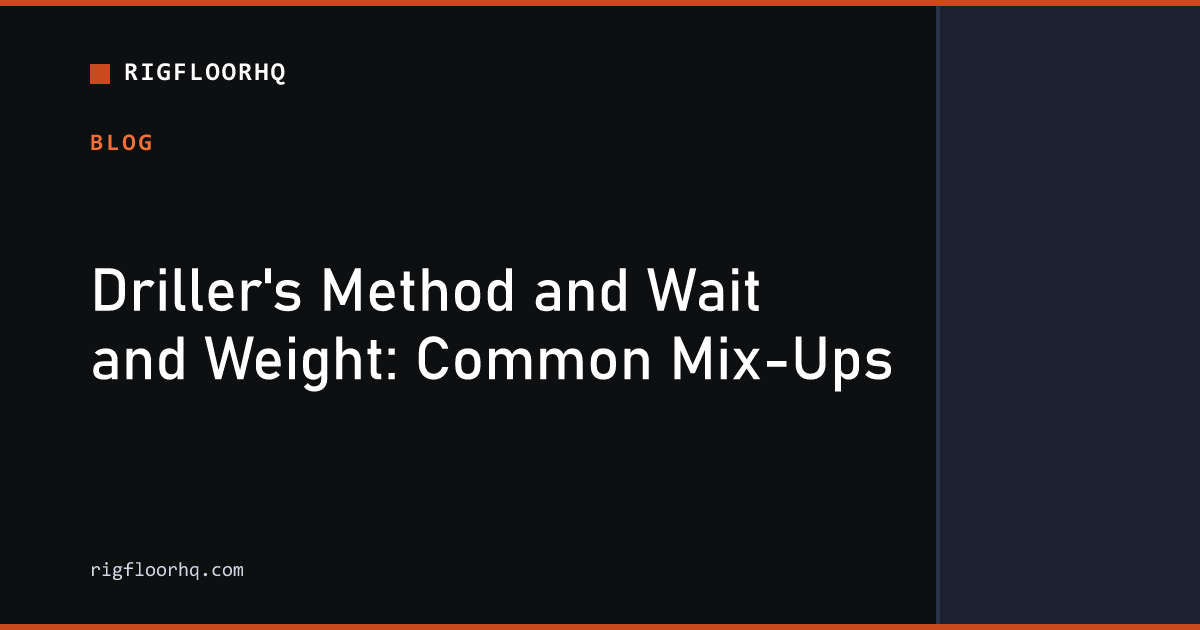
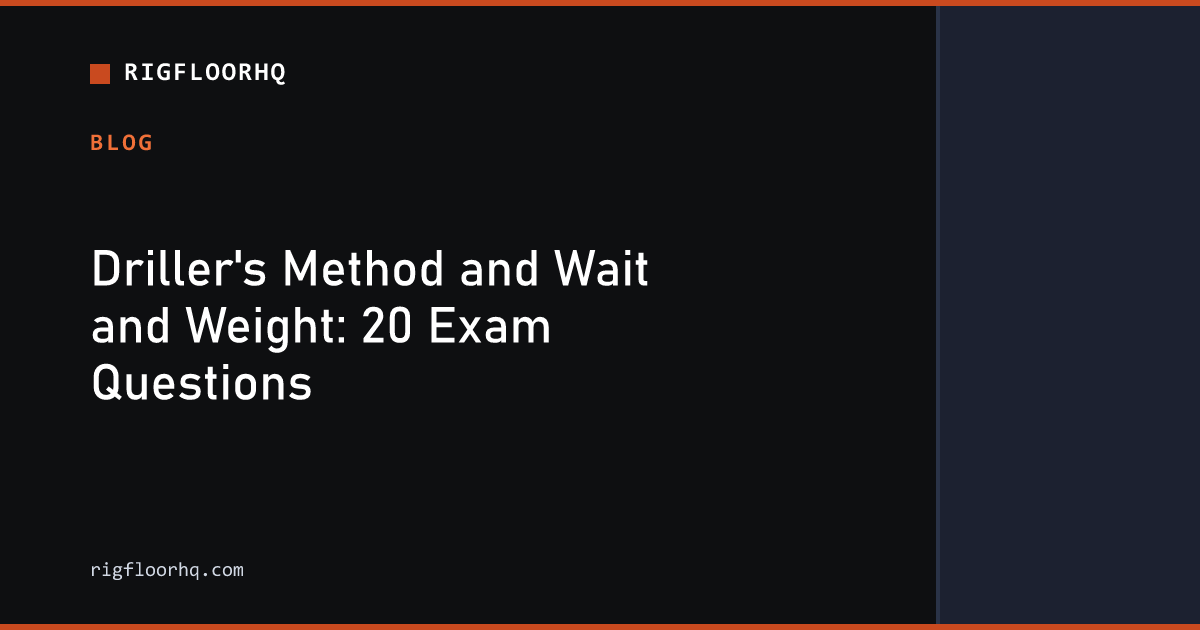
Resolve kill-method content cannibalization across 4 URLs (audit finding CA-01)
The Driller's Method vs Wait and Weight comparison was split across the
well-control hub, the well-kill-methods pillar, the well-control-basics
FAQ, and a dedicated mix-ups post -- all targeting the same search intent.

- Pillar now owns the comparison: "Choosing a Kill Method" renamed to
  "Driller's Method vs Wait and Weight: Side by Side", with a new worked
  comparison (circulations, strokes, time, peak shoe/casing pressure)
  through both methods on the same kick used elsewhere on the page.
- Hub cut from ~510 words (full process/advantage/disadvantage table +
  its own separate worked example) to a ~150-word summary retitled "Kill
  Methods at a Glance", linking to the pillar for depth instead of
  duplicating it.
- well-control-basics FAQ changed from a standalone answer to a link to
  the pillar's comparison.
- Mix-ups post retitled "Driller's Method and Wait and Weight: 20 Exam
  Questions" to match its real Q&A format (verified: exactly 20 numbered
  questions, EN and ES).

Also closed the related H2 finding while in the same files: the pillar's
URL was renamed to /pillars/well-kill-methods in a prior session, but ten
inline references sitewide (pillars index card + "What Each Guide
Covers" H3, the quiz page, hydrostatic-pressure pillar, kill-sheet
calculator, and five blog posts, EN and ES) still called it "Advanced
Well Control" / "Control de Pozos Avanzado". All aligned to the real
title -- confirmed zero stray references left in the built dist output.
[…]

Changed region(s): [[0.0617, 0.3921, 0.74, 0.6333]]

diff --git a/src/content/blog-es/well-control-basics.md b/src/content/blog-es/well-control-basics.md
@@ -144,7 +144,7 @@ Si estás construyendo o avanzando una carrera en el piso de perforación, enten
 
 El control de pozos tampoco existe aislado del resto de las operaciones del taladro. La integridad de la sarta de perforación, cubierta en la [página de componentes de la sarta de perforación](/es/equipment/drill-string), afecta todo desde la función de los arietes de corte hasta la transmisión de presión durante una matanza. Las reparaciones estructurales en el equipo del piso de perforación, incluyendo componentes del stack de BOP y manifolds de choke, a menudo requieren trabajo de soldadura realizado según estándares estrictos de recipientes a presión — cubierto en la [sección de fundamentos de soldadura](/es/welding).
 
-Para una mirada más amplia de cómo el control de pozos encaja en la secuencia completa de perforación, desde el spud hasta la profundidad total, el [resumen de operaciones de perforación](/es/drilling) y el [resumen de equipo del taladro](/es/equipment) proporcionan el contexto circundante. Y si estás comparando herramientas antes de tu próximo pozo, la [suite completa de calculadoras de perforación](/es/calculators) cubre presión hidrostática, hojas de control de pozo, y ventanas de peso de lodo en un solo lugar. Una vez que los fundamentos aquí estén sólidos, la [guía de Control de Pozos Avanzado](/es/pillars/well-kill-methods) continúa donde esto termina, y [comportamiento de la presión de cierre](/es/blog/shut-in-pressure-behavior-explained) profundiza en lo que realmente hacen los manómetros una vez que el pozo está cerrado.
+Para una mirada más amplia de cómo el control de pozos encaja en la secuencia completa de perforación, desde el spud hasta la profundidad total, el [resumen de operaciones de perforación](/es/drilling) y el [resumen de equipo del taladro](/es/equipment) proporcionan el contexto circundante. Y si estás comparando herramientas antes de tu próximo pozo, la [suite completa de calculadoras de perforación](/es/calculators) cubre presión hidrostática, hojas de control de pozo, y ventanas de peso de lodo en un solo lugar. Una vez que los fundamentos aquí estén sólidos, la [guía de Métodos para Matar un Pozo](/es/pillars/well-kill-methods) continúa donde esto termina, y [comportamiento de la presión de cierre](/es/blog/shut-in-pressure-behavior-explained) profundiza en lo que realmente hacen los manómetros una vez que el pozo está cerrado.
 
 ## Conceptos Erróneos Comunes
 
@@ -236,7 +236,7 @@ El cierre duro cierra el BOP contra un choke cerrado y luego abre la válvula HC
 
 ### ¿Es mejor el Método del Perforador o el Método Wait and Weight para control de pozos?
 
-Ningún método es universalmente mejor — la elección depende de la capacidad del taladro, la capacidad de mezcla de lodo, y la sensibilidad de la formación. El Método del Perforador usa dos circulaciones con el lodo original primero, mientras que Wait and Weight mata el pozo en una circulación usando lodo de matanza pre-pesado.
+Ninguno es universalmente mejor — depende de la capacidad del taladro, la capacidad de mezcla de lodo, y la sensibilidad de la formación. Ver la [comparación completa entre el Método del Perforador y Wait and Weight](/es/pillars/well-kill-methods#como-elegir), con un ejemplo resuelto por ambos métodos.
 
 ### ¿Con qué frecuencia debe probarse el equipo de BOP?
 

diff --git a/src/content/blog/well-control-basics.md b/src/content/blog/well-control-basics.md
@@ -134,7 +134,7 @@ If you're building or advancing a career on the rig floor, understanding where w
 
 Well control also doesn't exist in isolation from the rest of rig operations. Drill string integrity, covered on the [drill string components page](/equipment/drill-string), affects everything from shear ram function to pressure transmission during a kill. Structural repairs on rig floor equipment, including BOP stack components and choke manifolds, often require welding work performed to strict pressure-vessel standards — covered in the [welding fundamentals section](/welding).
 
-For a broader look at how well control fits into the full drilling sequence, from spud to total depth, the [drilling operations overview](/drilling) and [rig equipment overview](/equipment) provide the surrounding context. And if you're comparing tools before your next well, the full [drilling calculators suite](/calculators) covers hydrostatic pressure, kill sheets, and mud weight windows in one place. Once the basics here are solid, the [Advanced Well Control guide](/pillars/well-kill-methods) picks up where this leaves off, and [shut-in pressure behavior](/blog/shut-in-pressure-behavior-explained) goes deeper on what the gauges actually do once the well is closed in.
+For a broader look at how well control fits into the full drilling sequence, from spud to total depth, the [drilling operations overview](/drilling) and [rig equipment overview](/equipment) provide the surrounding context. And if you're comparing tools before your next well, the full [drilling calculators suite](/calculators) covers hydrostatic pressure, kill sheets, and mud weight windows in one place. Once the basics here are solid, the [Well Kill Methods guide](/pillars/well-kill-methods) picks up where this leaves off, and [shut-in pressure behavior](/blog/shut-in-pressure-behavior-explained) goes deeper on what the gauges actually do once the well is closed in.
 
 ## Common Misconceptions
 
@@ -226,7 +226,7 @@ Hard shut-in closes the BOP against a closed choke, then opens the choke line HC
 
 ### Is the Driller's Method or Wait and Weight Method better for well control?
 
-Neither method is universally better — the choice depends on rig capability, mud mixing capacity, and formation sensitivity. Driller's Method uses two circulations with original mud first, while Wait and Weight kills the well in one circulation using pre-weighted kill mud.
+Neither is universally better — it depends on rig capability, mud mixing capacity, and formation sensitivity. See the full [Driller's Method vs Wait and Weight comparison](/pillars/well-kill-methods#choosing), including a worked example through both methods.
 
 ### How often should BOP equipment be tested?
 

diff --git a/src/content/blog-es/volumetric-kill-real-story.md b/src/content/blog-es/volumetric-kill-real-story.md
@@ -37,4 +37,4 @@ El Método Volumétrico en sí es una fórmula que cualquiera puede aprender de 
 
 ---
 
-Ver la [calculadora de hoja de control de pozo](/es/calculators/kill-sheet) para la aritmética detrás del Método del Perforador y Wait and Weight, y [Método del Perforador y Wait and Weight: Confusiones Comunes](/es/blog/drillers-method-wait-and-weight-mixups) para dónde se confunden los dos con el Método Volumétrico. El contexto sobre el procedimiento de cierre y los cuatro métodos de matanza está en la [página de referencia de control de pozos](/es/drilling/well-control). Para la definición formal de volumétrico contra lubricar-y-desahogar y cuándo recurrir a cualquiera de los dos en lugar de un método circulante, ver la [guía de Control de Pozos Avanzado](/es/pillars/well-kill-methods). La matemática de presión de cierre que gobernó este pozo antes de que comenzara la matanza está cubierta en [comportamiento de la presión de cierre](/es/blog/shut-in-pressure-behavior-explained), y el gas migrando por el anular durante un desahogo volumétrico es exactamente lo que modela la [calculadora de migración de gas](/es/calculators/gas-migration). Soy Jabin Travis — ver mis [antecedentes completos](/es/about/jabin-travis).
+Ver la [calculadora de hoja de control de pozo](/es/calculators/kill-sheet) para la aritmética detrás del Método del Perforador y Wait and Weight, y [Método del Perforador y Wait and Weight: 20 Preguntas de Examen](/es/blog/drillers-method-wait-and-weight-mixups) para dónde se confunden los dos con el Método Volumétrico. El contexto sobre el procedimiento de cierre y los cuatro métodos de matanza está en la [página de referencia de control de pozos](/es/drilling/well-control). Para la definición formal de volumétrico contra lubricar-y-desahogar y cuándo recurrir a cualquiera de los dos en lugar de un método circulante, ver la [guía de Métodos para Matar un Pozo](/es/pillars/well-kill-methods). La matemática de presión de cierre que gobernó este pozo antes de que comenzara la matanza está cubierta en [comportamiento de la presión de cierre](/es/blog/shut-in-pressure-behavior-explained), y el gas migrando por el anular durante un desahogo volumétrico es exactamente lo que modela la [calculadora de migración de gas](/es/calculators/gas-migration). Soy Jabin Travis — ver mis [antecedentes completos](/es/about/jabin-travis).

diff --git a/src/content/blog/shut-in-pressure-behavior-explained.md b/src/content/blog/shut-in-pressure-behavior-explained.md
@@ -177,4 +177,4 @@ SIDPP is defined as the difference between **fluid hydrostatic pressure in the d
 
 ---
 
-For the math behind ICP, FCP, and pressure schedules, the [kill sheet calculator](/calculators/kill-sheet) and [horizontal kill sheet calculator](/calculators/kill-sheet-horizontal) run these live. The [hydrostatic pressure calculator](/calculators/hydrostatic) and [mud weight converter](/calculators/mud-weight-converter) run the definitional math above. Background theory is on the [well control reference page](/drilling/well-control) and the [hydrostatic pressure pillar](/pillars/hydrostatic-pressure), with the supervisor-level kill-method detail on the [Advanced Well Control guide](/pillars/well-kill-methods). Once a kill is actually underway, holding the right pressure constant is where [Driller's Method and Wait and Weight mistakes](/blog/drillers-method-wait-and-weight-mixups) most often happen, and the same hydrostatic math shows up again as worked numeric problems in [pit volumes and MAASP mistakes](/blog/pit-volumes-maasp-math-mistakes). If the 0.052 in that math has ever seemed like something that should vary by mud type, [the actual derivation](/blog/hydrostatic-pressure-0052-constant) explains why it doesn't.
+For the math behind ICP, FCP, and pressure schedules, the [kill sheet calculator](/calculators/kill-sheet) and [horizontal kill sheet calculator](/calculators/kill-sheet-horizontal) run these live. The [hydrostatic pressure calculator](/calculators/hydrostatic) and [mud weight converter](/calculators/mud-weight-converter) run the definitional math above. Background theory is on the [well control reference page](/drilling/well-control) and the [hydrostatic pressure pillar](/pillars/hydrostatic-pressure), with the supervisor-level kill-method detail on the [Well Kill Methods guide](/pillars/well-kill-methods). Once a kill is actually underway, holding the right pressure constant is where [Driller's Method and Wait and Weight mistakes](/blog/drillers-method-wait-and-weight-mixups) most often happen, and the same hydrostatic math shows up again as worked numeric problems in [pit volumes and MAASP mistakes](/blog/pit-volumes-maasp-math-mistakes). If the 0.052 in that math has ever seemed like something that should vary by mud type, [the actual derivation](/blog/hydrostatic-pressure-0052-constant) explains why it doesn't.

diff --git a/src/content/blog-es/five-warning-signs-of-a-kick.md b/src/content/blog-es/five-warning-signs-of-a-kick.md
@@ -36,7 +36,7 @@ Esta es la señal definitiva. Si detienes las bombas completamente y el pozo sig
 
 Todo el propósito del entrenamiento de control de pozos — IWCF, IADC WellSharp, todo — está construido alrededor de detectar una surgencia en la etapa uno o dos, no en la etapa cinco. Una surgencia detectada en la etapa de volumen de pileta es un evento controlado, casi rutinario: cierras el pozo, lees tus presiones, calculas el peso de lodo de matanza, y lo circulas hacia afuera. Una surgencia que no se detecta hasta que está visiblemente fluyendo en superficie ya ha tenido tiempo de crecer, y las opciones para manejarla de forma segura se reducen considerablemente.
 
-Si quieres ver la matemática real detrás de esto — cómo se calculan el peso de lodo de matanza, la presión de circulación inicial, y la presión de circulación final una vez que un pozo está cerrado — la [calculadora de hoja de control de pozo](/es/calculators/kill-sheet) recorre las fórmulas exactas, y la [página de referencia de control de pozos](/es/drilling/well-control) cubre el procedimiento completo de cierre paso a paso. Para los fundamentos de qué es realmente una surgencia antes de que aparezcan estas señales, ver [qué es una surgencia](/es/blog/well-control-basics); para el desglose de métodos de matanza a nivel supervisor una vez confirmada, ver la [guía de Control de Pozos Avanzado](/es/pillars/well-kill-methods).
+Si quieres ver la matemática real detrás de esto — cómo se calculan el peso de lodo de matanza, la presión de circulación inicial, y la presión de circulación final una vez que un pozo está cerrado — la [calculadora de hoja de control de pozo](/es/calculators/kill-sheet) recorre las fórmulas exactas, y la [página de referencia de control de pozos](/es/drilling/well-control) cubre el procedimiento completo de cierre paso a paso. Para los fundamentos de qué es realmente una surgencia antes de que aparezcan estas señales, ver [qué es una surgencia](/es/blog/well-control-basics); para el desglose de métodos de matanza a nivel supervisor una vez confirmada, ver la [guía de Métodos para Matar un Pozo](/es/pillars/well-kill-methods).
 
 ## Errores Comunes en Señales de Advertencia y Cierre
 

diff --git a/src/content/blog/drillers-method-wait-and-weight-mixups.md b/src/content/blog/drillers-method-wait-and-weight-mixups.md
@@ -1,6 +1,6 @@
 ---
-title: "Driller's Method and Wait and Weight: Common Mix-Ups"
-description: "Where the Driller's Method, Wait and Weight, and Volumetric Method get confused with each other — which pressure to hold constant."
+title: "Driller's Method and Wait and Weight: 20 Exam Questions"
+description: "20 worked questions on where the Driller's Method, Wait and Weight, and Volumetric Method get confused with each other — which pressure to hold constant."
 publishDate: "2026-09-21"
 author: "RigFloorHQ Team"
 category: "Well Control"
@@ -95,4 +95,4 @@ Pumping kill mud to the bit while holding drill pipe pressure flat, without adju
 
 ---
 
-The [kill sheet calculator](/calculators/kill-sheet) and [horizontal kill sheet calculator](/calculators/kill-sheet-horizontal) build these exact pressure schedules, and the [bullheading calculator](/calculators/bullheading) covers a related alternative method. Several of the scenarios above assume a well already correctly shut in — see [shut-in pressure behavior](/blog/shut-in-pressure-behavior-explained) for what happens before this stage. For the full step-by-step procedure these mix-ups sit inside, see [well control](/drilling/well-control), or the supervisor-level comparison on the [Advanced Well Control kill methods guide](/pillars/well-kill-methods). For what it looks like when neither circulating method is available, see [a real volumetric kill](/blog/volumetric-kill-real-story).
+The [kill sheet calculator](/calculators/kill-sheet) and [horizontal kill sheet calculator](/calculators/kill-sheet-horizontal) build these exact pressure schedules, and the [bullheading calculator](/calculators/bullheading) covers a related alternative method. Several of the scenarios above assume a well already correctly shut in — see [shut-in pressure behavior](/blog/shut-in-pressure-behavior-explained) for what happens before this stage. For the full step-by-step procedure these mix-ups sit inside, see [well control](/drilling/well-control), or the supervisor-level comparison on the [Well Kill Methods guide](/pillars/well-kill-methods). For what it looks like when neither circulating method is available, see [a real volumetric kill](/blog/volumetric-kill-real-story).

diff --git a/src/content/blog-es/drillers-method-wait-and-weight-mixups.md b/src/content/blog-es/drillers-method-wait-and-weight-mixups.md
@@ -1,6 +1,6 @@
 ---
-title: "Método del Perforador y Wait and Weight: Confusiones Comunes"
-description: "Dónde el Método del Perforador, Wait and Weight y el Método Volumétrico se confunden — qué presión mantener constante."
+title: "Método del Perforador y Wait and Weight: 20 Preguntas de Examen"
+description: "20 preguntas resueltas sobre dónde el Método del Perforador, Wait and Weight y el Método Volumétrico se confunden — qué presión mantener constante."
 publishDate: "2026-09-21"
 author: "RigFloorHQ Team"
 category: "Control de Pozos"
@@ -95,4 +95,4 @@ Bombeando lodo de matanza hasta la barrena mientras se mantiene plana la presió
 
 ---
 
-La [calculadora de hoja de control de pozo](/es/calculators/kill-sheet) y la [calculadora de hoja de control horizontal](/es/calculators/kill-sheet-horizontal) construyen estos mismos programas de presión, y la [calculadora de bombeo a matar](/es/calculators/bullheading) cubre un método alternativo relacionado. Varios de los escenarios anteriores asumen un pozo ya correctamente cerrado — ver [comportamiento de la presión de cierre](/es/blog/shut-in-pressure-behavior-explained) para lo que sucede antes de esta etapa. Para el procedimiento completo paso a paso en el que viven estas confusiones, ver [control de pozos](/es/drilling/well-control), o la comparación a nivel supervisor en la [guía de métodos de matanza de Control de Pozos Avanzado](/es/pillars/well-kill-methods).
+La [calculadora de hoja de control de pozo](/es/calculators/kill-sheet) y la [calculadora de hoja de control horizontal](/es/calculators/kill-sheet-horizontal) construyen estos mismos programas de presión, y la [calculadora de bombeo a matar](/es/calculators/bullheading) cubre un método alternativo relacionado. Varios de los escenarios anteriores asumen un pozo ya correctamente cerrado — ver [comportamiento de la presión de cierre](/es/blog/shut-in-pressure-behavior-explained) para lo que sucede antes de esta etapa. Para el procedimiento completo paso a paso en el que viven estas confusiones, ver [control de pozos](/es/drilling/well-control), o la comparación a nivel supervisor en la [guía de Métodos para Matar un Pozo](/es/pillars/well-kill-methods).

diff --git a/src/content/blog-es/well-control-curveball-scenarios.md b/src/content/blog-es/well-control-curveball-scenarios.md
@@ -57,4 +57,4 @@ Están diseñados para contener la Presión de Trabajo Nominal **solo desde abaj
 
 ---
 
-Para las matemáticas subyacentes, la [calculadora de hoja de control de pozo](/es/calculators/kill-sheet) y la [calculadora de presión hidrostática](/es/calculators/hydrostatic) ejecutan estas fórmulas en vivo. Para las matemáticas específicas submarinas, la [calculadora de margen de riser](/es/calculators/riser-margin) ejecuta la fórmula de margen de riser. El concepto de PWD/ECD en la #4 de arriba se cubre desde un ángulo diferente en [fundamentos de control de pozos](/es/blog/well-control-basics), y el procedimiento de cierre que estos escenarios asumen está en la [página de referencia de control de pozos](/es/drilling/well-control). El material a nivel supervisor detrás de varios de estos casos límite — MPD, consideraciones regionales de matanza — está en la [guía de Control de Pozos Avanzado](/es/pillars/well-kill-methods), y las cinco señales de advertencia sobre las que se construyen estos escenarios están en [cinco señales de advertencia de una surgencia](/es/blog/five-warning-signs-of-a-kick).
+Para las matemáticas subyacentes, la [calculadora de hoja de control de pozo](/es/calculators/kill-sheet) y la [calculadora de presión hidrostática](/es/calculators/hydrostatic) ejecutan estas fórmulas en vivo. Para las matemáticas específicas submarinas, la [calculadora de margen de riser](/es/calculators/riser-margin) ejecuta la fórmula de margen de riser. El concepto de PWD/ECD en la #4 de arriba se cubre desde un ángulo diferente en [fundamentos de control de pozos](/es/blog/well-control-basics), y el procedimiento de cierre que estos escenarios asumen está en la [página de referencia de control de pozos](/es/drilling/well-control). El material a nivel supervisor detrás de varios de estos casos límite — MPD, consideraciones regionales de matanza — está en la [guía de Métodos para Matar un Pozo](/es/pillars/well-kill-methods), y las cinco señales de advertencia sobre las que se construyen estos escenarios están en [cinco señales de advertencia de una surgencia](/es/blog/five-warning-signs-of-a-kick).

diff --git a/src/content/blog/volumetric-kill-real-story.md b/src/content/blog/volumetric-kill-real-story.md
@@ -37,4 +37,4 @@ The Volumetric Method itself is a formula anyone can learn from a kill sheet. Wh
 
 ---
 
-See the [kill sheet calculator](/calculators/kill-sheet) for the arithmetic behind the Driller's Method and Wait and Weight, and [Driller's Method and Wait and Weight: Common Mix-Ups](/blog/drillers-method-wait-and-weight-mixups) for where the two get confused with the Volumetric Method. Background on shut-in procedure and all four kill methods is on the [well control reference page](/drilling/well-control). For the formal definition of volumetric vs. lubricate-and-bleed and when to reach for either over a circulating method, see the [Advanced Well Control guide](/pillars/well-kill-methods). The shut-in pressure math that governed this well before the kill started is covered in [shut-in pressure behavior](/blog/shut-in-pressure-behavior-explained), and gas migrating up the annulus during a volumetric bleed is exactly what the [gas migration calculator](/calculators/gas-migration) models. I'm Jabin Travis — see my [full background](/about/jabin-travis) for my own credentials.
+See the [kill sheet calculator](/calculators/kill-sheet) for the arithmetic behind the Driller's Method and Wait and Weight, and [Driller's Method and Wait and Weight: 20 Exam Questions](/blog/drillers-method-wait-and-weight-mixups) for where the two get confused with the Volumetric Method. Background on shut-in procedure and all four kill methods is on the [well control reference page](/drilling/well-control). For the formal definition of volumetric vs. lubricate-and-bleed and when to reach for either over a circulating method, see the [Well Kill Methods guide](/pillars/well-kill-methods). The shut-in pressure math that governed this well before the kill started is covered in [shut-in pressure behavior](/blog/shut-in-pressure-behavior-explained), and gas migrating up the annulus during a volumetric bleed is exactly what the [gas migration calculator](/calculators/gas-migration) models. I'm Jabin Travis — see my [full background](/about/jabin-travis) for my own credentials.

diff --git a/src/content/blog/five-warning-signs-of-a-kick.md b/src/content/blog/five-warning-signs-of-a-kick.md
@@ -36,7 +36,7 @@ This is the definitive sign. If you stop the pumps entirely and the well is stil
 
 The entire point of well control training — IWCF, IADC WellSharp, all of it — is built around catching a kick at stage one or two, not stage five. A kick caught at the pit-volume stage is a controlled, almost routine event: you shut in, read your pressures, calculate kill mud weight, and circulate it out. A kick that isn't caught until it's visibly flowing at surface has already had time to grow, and the options for handling it safely narrow considerably.
 
-If you want to see the actual math behind this — how kill mud weight, initial circulating pressure, and final circulating pressure are calculated once a well is shut in — the [kill sheet calculator](/calculators/kill-sheet) walks through the exact formulas, and the [well control reference page](/drilling/well-control) covers the full shut-in procedure step by step. For the fundamentals behind what a kick actually is before any of these signs show up, see [what is a kick](/blog/well-control-basics); for the supervisor-level kill-method breakdown once one's confirmed, see the [Advanced Well Control guide](/pillars/well-kill-methods).
+If you want to see the actual math behind this — how kill mud weight, initial circulating pressure, and final circulating pressure are calculated once a well is shut in — the [kill sheet calculator](/calculators/kill-sheet) walks through the exact formulas, and the [well control reference page](/drilling/well-control) covers the full shut-in procedure step by step. For the fundamentals behind what a kick actually is before any of these signs show up, see [what is a kick](/blog/well-control-basics); for the supervisor-level kill-method breakdown once one's confirmed, see the [Well Kill Methods guide](/pillars/well-kill-methods).
 
 ## Common Mistakes on Warning Signs and Shut-In
 
